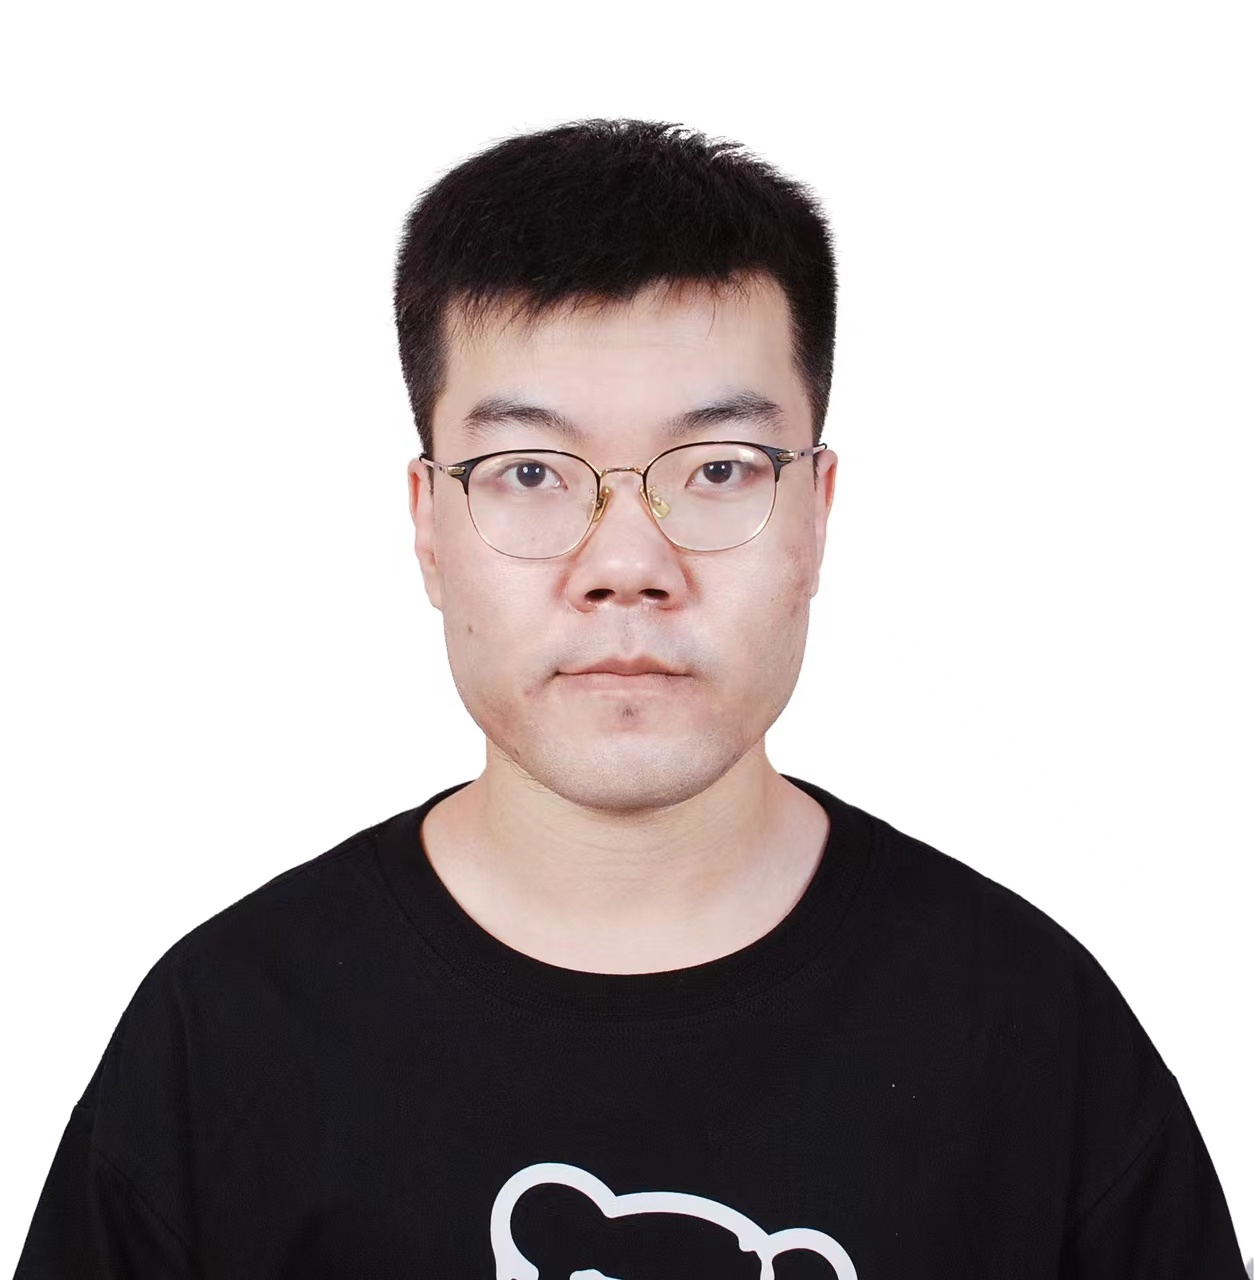
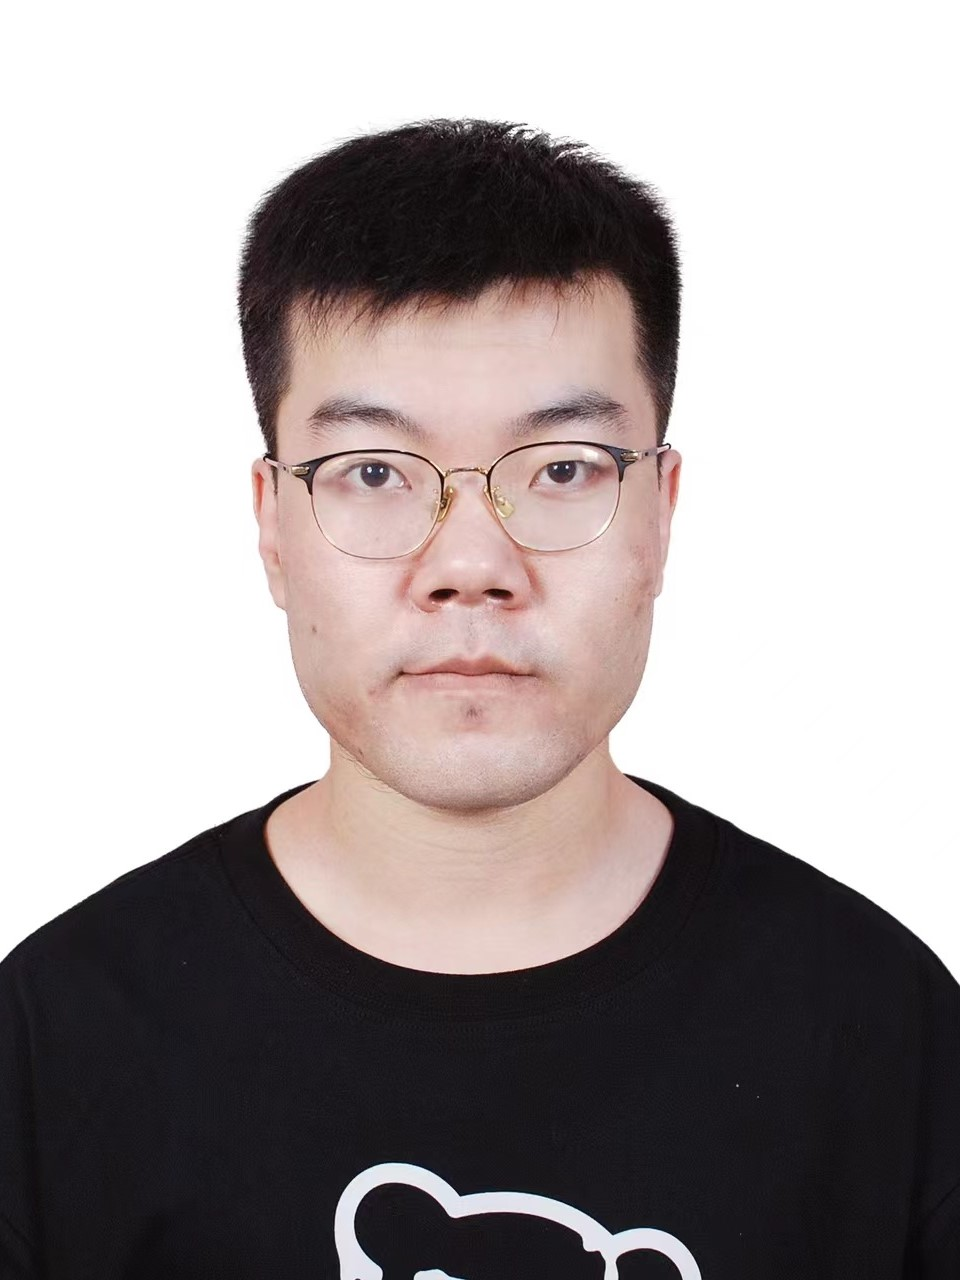
修改了错别字(dnace->dance)；裁剪照片到4:3

diff --git a/index.html b/index.html
@@ -388,7 +388,7 @@
                     </tr>
                     <tr>
                         <td class="STYLE18"><img src="img/graduate/魏博.jpg" height="200" /><br />Bo Wei, Master<br />Alibaba Group<br />(阿里巴巴集团控股有限公司)</td>
-                        <td class="STYLE18"><img src="img/graduate/XiaochengLu.jpg" height="200" /><br />Xiaocheng Lu, Master<br />Bytednace<br />(字节跳动)</td>
+                        <td class="STYLE18"><img src="img/graduate/XiaochengLu.jpg" height="200" /><br />Xiaocheng Lu, Master<br />Bytedance<br />(字节跳动)</td>
                     </tr>
                 </table>
                 <p style="text-align:right;">[<a href="#top" target="_self" ><span style="font-family: Palatino Linotype">↑TOP</span></a>]</p>
